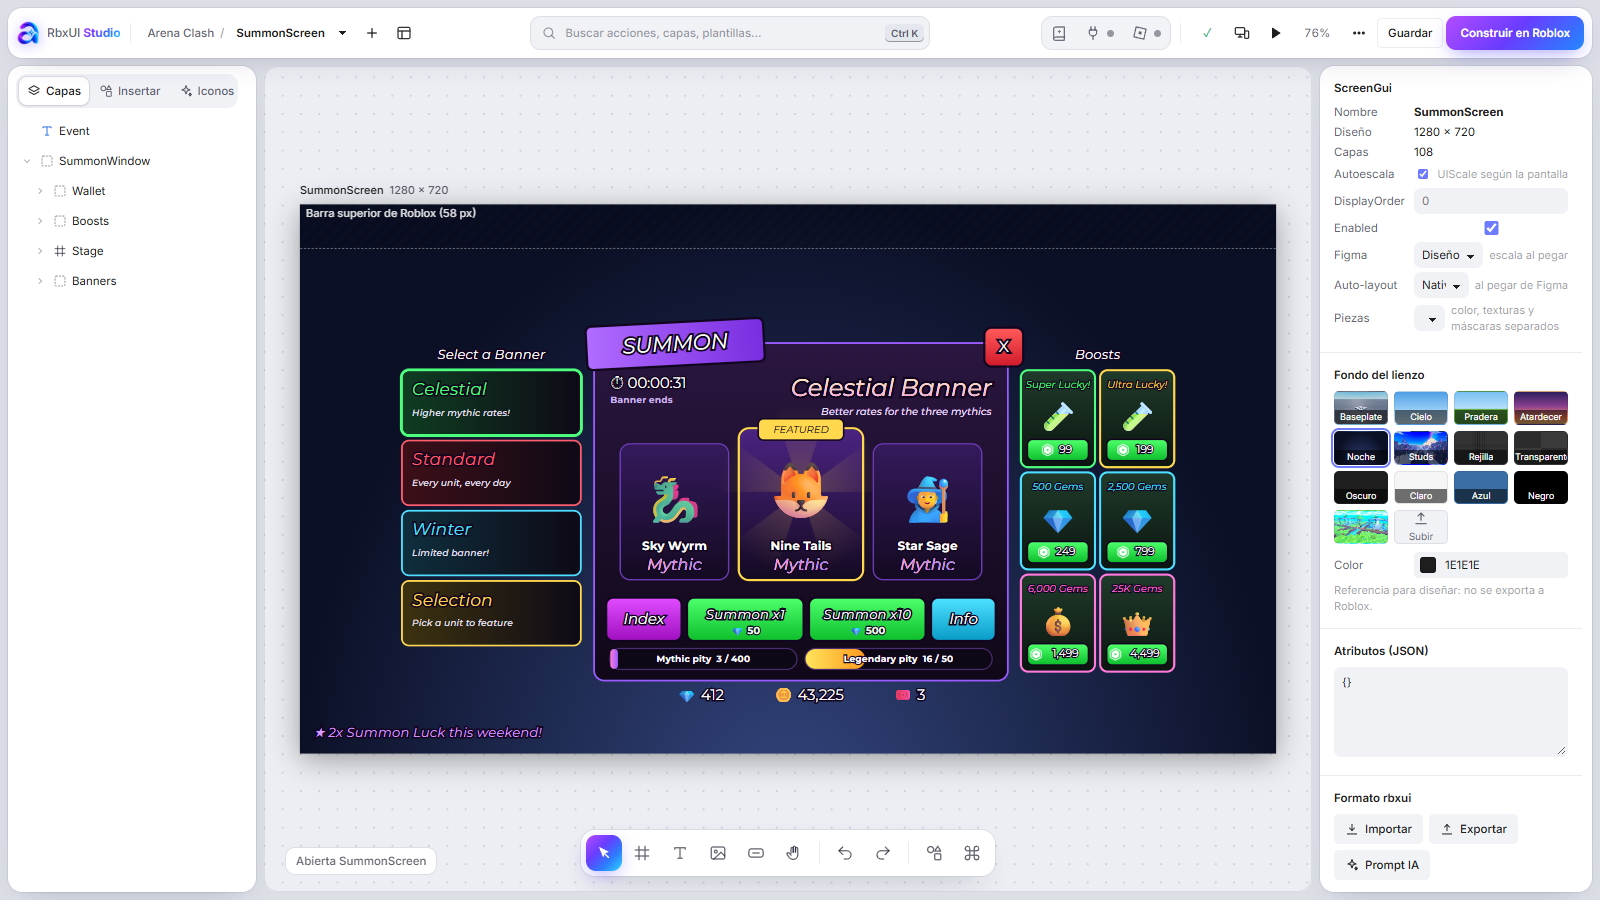
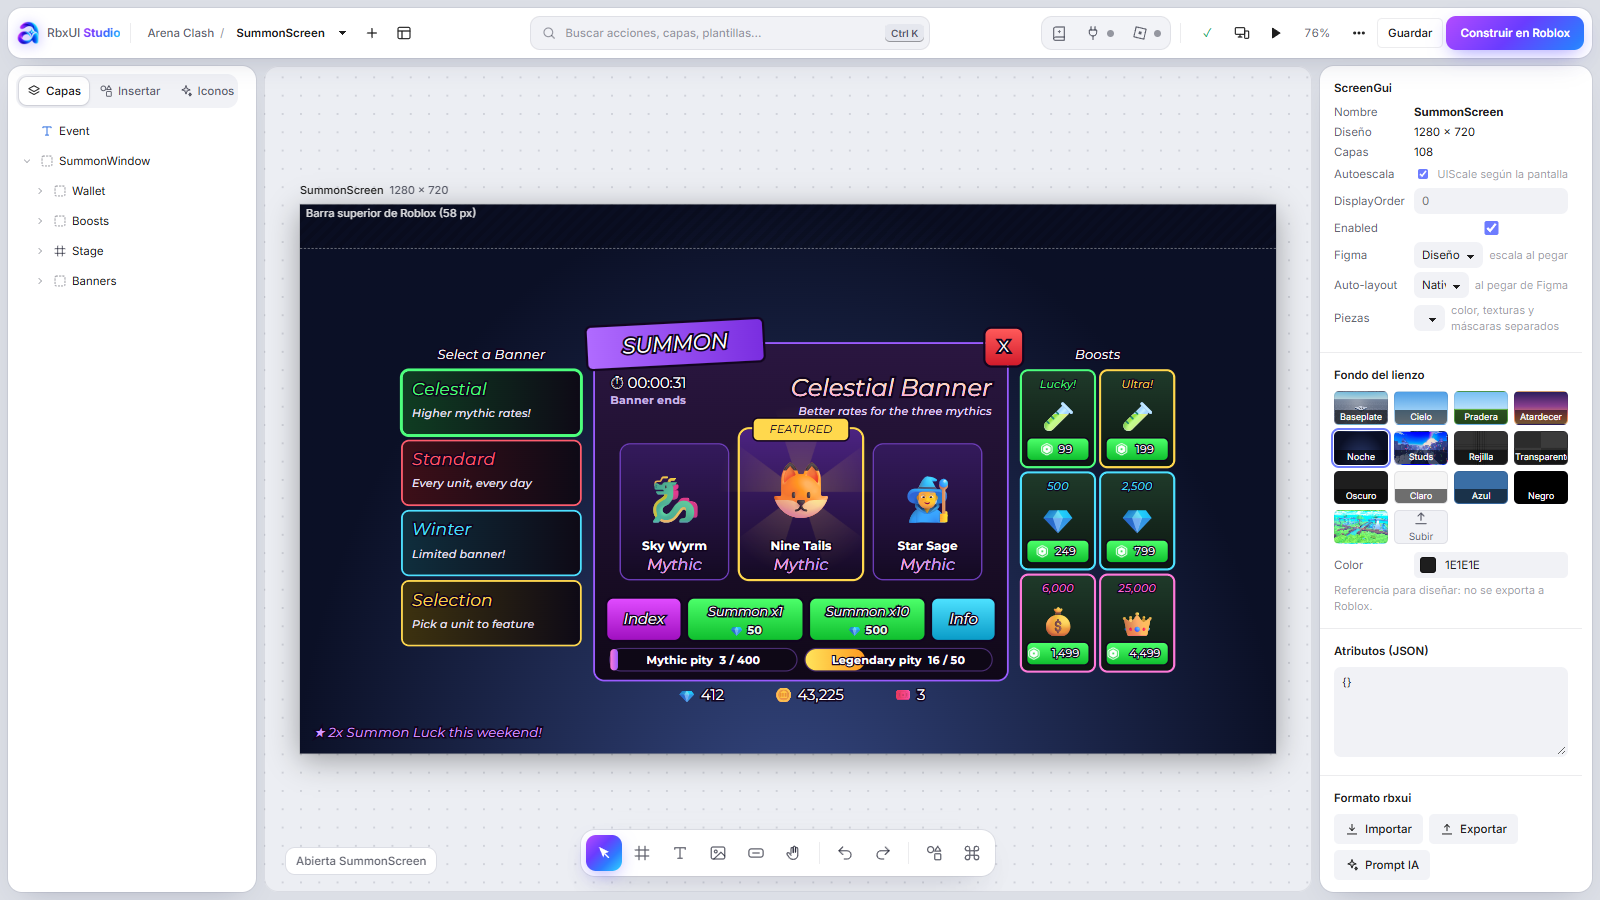
README: table header, refreshed device-view and light-theme screenshots

diff --git a/README.md b/README.md
@@ -24,7 +24,7 @@ A skill (knowledge pack) + <b>RbxUI Studio</b>, a Figma-like editor with an MCP 
 Ask an AI for a Roblox shop and you usually get pixel offsets that break on phones, flat colors, no hierarchy and text nobody can read.
 RbxUiStudio fixes it from both sides:
 
-| | |
+| Part | What it is |
 |---|---|
 | 🧠 **Knowledge** | [`SKILL.md`](SKILL.md) + guides: engine fundamentals checked against [create.roblox.com/docs](https://create.roblox.com/docs), four style families, a final checklist, and **teardowns of 20 hit games** (Grow a Garden, Pet Simulator 99, Adopt Me!, Blox Fruits, RIVALS, DOORS…) with screen maps, sampled palettes and the 16 conventions they all share. |
 | 🎨 **RbxUI Studio** | The AI writes a JSON tree of **real Roblox Instances** (`rbxui`), sees it exactly as Roblox lays it out, iterates on the render and installs it in Studio — images uploaded, no API key. Humans get a Figma-style editor on top of the same file. |
